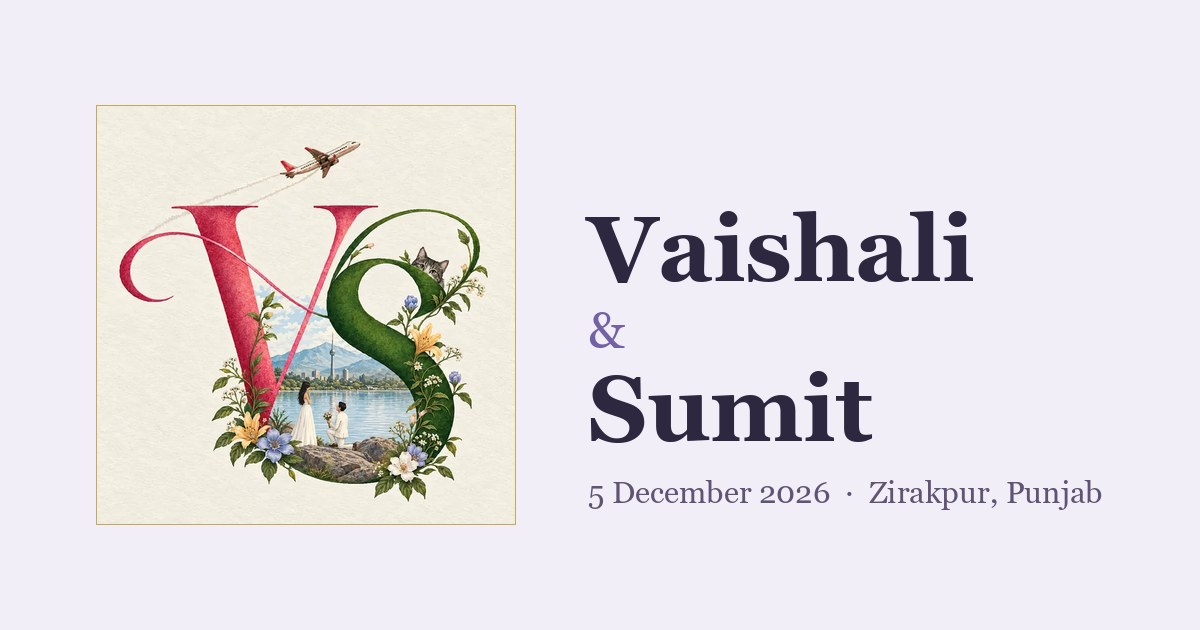
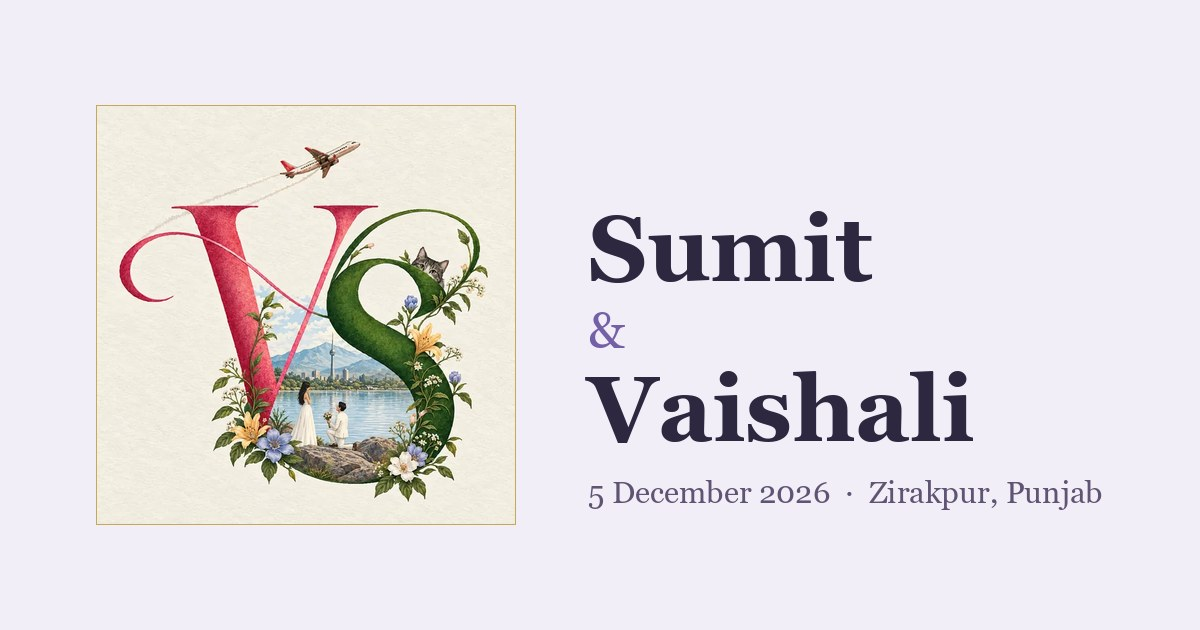
Put Sumit first everywhere, including the Devanagari
Hero, envelope, footer, page title and the og/twitter meta now read
Sumit & Vaishali, and the Devanagari reads सुमित & वैशाली. The share card
is regenerated, since the names are drawn into that image rather than
rendered from the page.

Changed region(s): [[0.4933, 0.573, 0.8325, 0.7238], [0.4933, 0.3317, 0.8325, 0.4524]]

diff --git a/index.html b/index.html
@@ -10,8 +10,8 @@
       html { background: #F2EEF8; }
       body { margin: 0; background: #F2EEF8; }
     </style>
-    <title>Vaishali &amp; Sumit</title>
-    <meta name="description" content="Vaishali &amp; Sumit are tying the knot on 5 December 2026 in Zirakpur, Punjab." />
+    <title>Sumit &amp; Vaishali</title>
+    <meta name="description" content="Sumit &amp; Vaishali are tying the knot on 5 December 2026 in Zirakpur, Punjab." />
 
     <link rel="icon" href="/favicon.ico" sizes="any" />
     <link rel="apple-touch-icon" href="/apple-touch-icon.png" />
@@ -21,14 +21,14 @@
          (https://yourdomain/og-image.jpg) -- some scrapers will not resolve a
          relative image. -->
     <meta property="og:type" content="website" />
-    <meta property="og:title" content="Vaishali &amp; Sumit" />
+    <meta property="og:title" content="Sumit &amp; Vaishali" />
     <meta property="og:description" content="Together with our families — 5 December 2026, Zirakpur, Punjab." />
     <meta property="og:image" content="/og-image.jpg" />
     <meta property="og:image:width" content="1200" />
     <meta property="og:image:height" content="630" />
     <meta property="og:locale" content="en_IN" />
     <meta name="twitter:card" content="summary_large_image" />
-    <meta name="twitter:title" content="Vaishali &amp; Sumit" />
+    <meta name="twitter:title" content="Sumit &amp; Vaishali" />
     <meta name="twitter:description" content="Together with our families — 5 December 2026, Zirakpur, Punjab." />
     <meta name="twitter:image" content="/og-image.jpg" />
 

diff --git a/src/components/Intro.jsx b/src/components/Intro.jsx
@@ -93,7 +93,7 @@ export default function Intro({ onDone, onOpen }) {
             <div className="card-inner">
               <p className="card-eyebrow">Together with our families</p>
               <p className="card-names">
-                Vaishali<span className="card-amp">&amp;</span>Sumit
+                Sumit<span className="card-amp">&amp;</span>Vaishali
               </p>
               <span className="card-rule" aria-hidden="true" />
               <p className="card-date">5 December 2026</p>
@@ -112,7 +112,7 @@ export default function Intro({ onDone, onOpen }) {
               <span className="env-flourish" aria-hidden="true">
                 ✦
               </span>
-              <p className="env-to">to the wedding of Vaishali &amp; Sumit</p>
+              <p className="env-to">to the wedding of Sumit &amp; Vaishali</p>
             </div>
           </div>
 

diff --git a/src/components/Hero.jsx b/src/components/Hero.jsx
@@ -24,15 +24,15 @@ export default function Hero() {
           sizes={HERO_SIZES}
           width="420"
           height="628"
-          alt="Vaishali and Sumit running hand in hand through a meadow at sunset"
+          alt="Sumit and Vaishali running hand in hand through a meadow at sunset"
           fetchPriority="high"
         />
       </picture>
       <p className="eyebrow">Together with our families</p>
       <h1 className="names">
-        Vaishali<span className="amp">&amp;</span>Sumit
+        Sumit<span className="amp">&amp;</span>Vaishali
       </h1>
-      <p className="names-dev">वैशाली &amp; सुमित</p>
+      <p className="names-dev">सुमित &amp; वैशाली</p>
       <p className="hero-date">Sat · 5 Dec 2026 · The Grandeur, Zirakpur</p>
       <span className="hero-rule" aria-hidden="true" />
       <Countdown />

diff --git a/src/styles.css b/src/styles.css
@@ -1,4 +1,4 @@
-/* Vaishali & Sumit -- lavender and champagne, light ground.
+/* Sumit & Vaishali -- lavender and champagne, light ground.
    Lavender carries anything interactive or emphatic; champagne is ornament.
    Both accents come in two tones, because the display values are too pale to
    read as small type: --champagne / --champagne-ink and the accent darkened

diff --git a/src/components/Footer.jsx b/src/components/Footer.jsx
@@ -2,7 +2,7 @@ export default function Footer() {
   return (
     <footer>
       <p className="hashtag">#SumoxVaish</p>
-      <p className="foot-small">With love · Vaishali &amp; Sumit · 2026</p>
+      <p className="foot-small">With love · Sumit &amp; Vaishali · 2026</p>
     </footer>
   );
 }

diff --git a/src/components/Proposal.jsx b/src/components/Proposal.jsx
@@ -24,7 +24,7 @@ const photos = [
     src: photo3,
     width: 1070,
     height: 1600,
-    alt: 'Vaishali and Sumit sitting together among flowers, she is holding sunflowers',
+    alt: 'Sumit and Vaishali sitting together among flowers, she is holding sunflowers',
   },
 ];
 

diff --git a/README.md b/README.md
@@ -1,4 +1,4 @@
-# Vaishali & Sumit
+# Sumit & Vaishali
 
 Wedding site — React (Vite) front end with Node serverless API routes, ready to deploy on Vercel.
 
